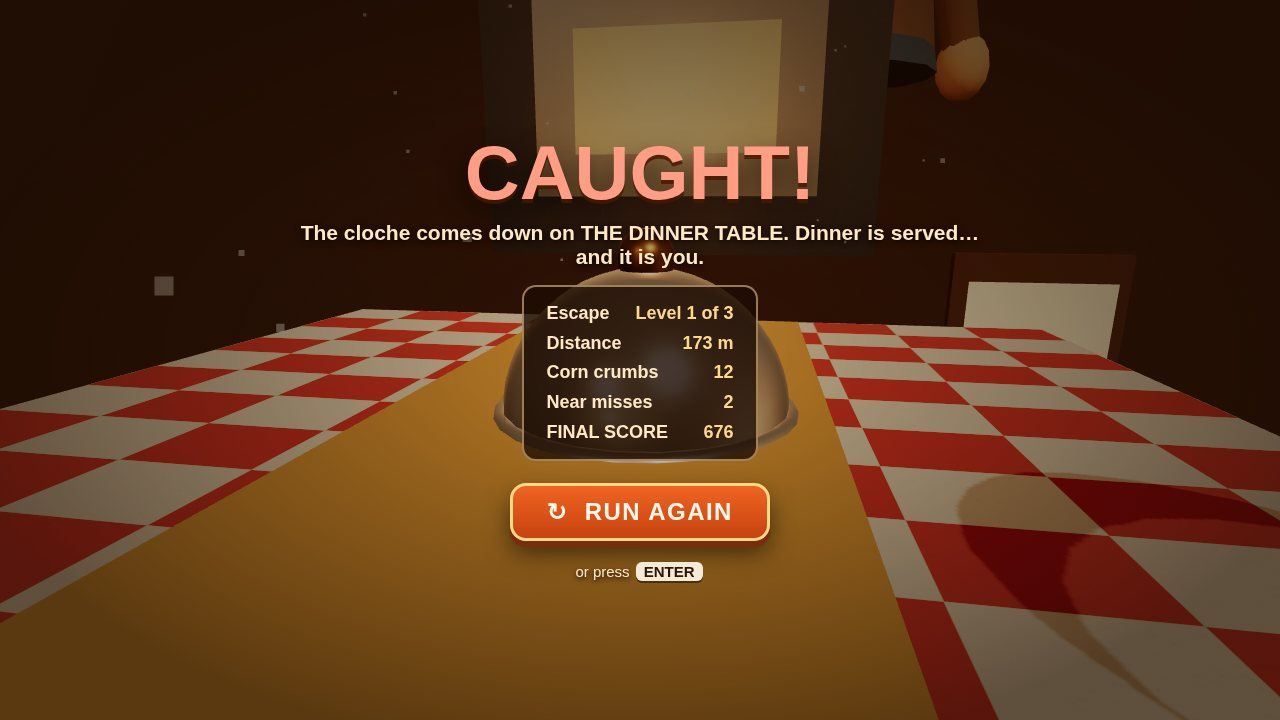
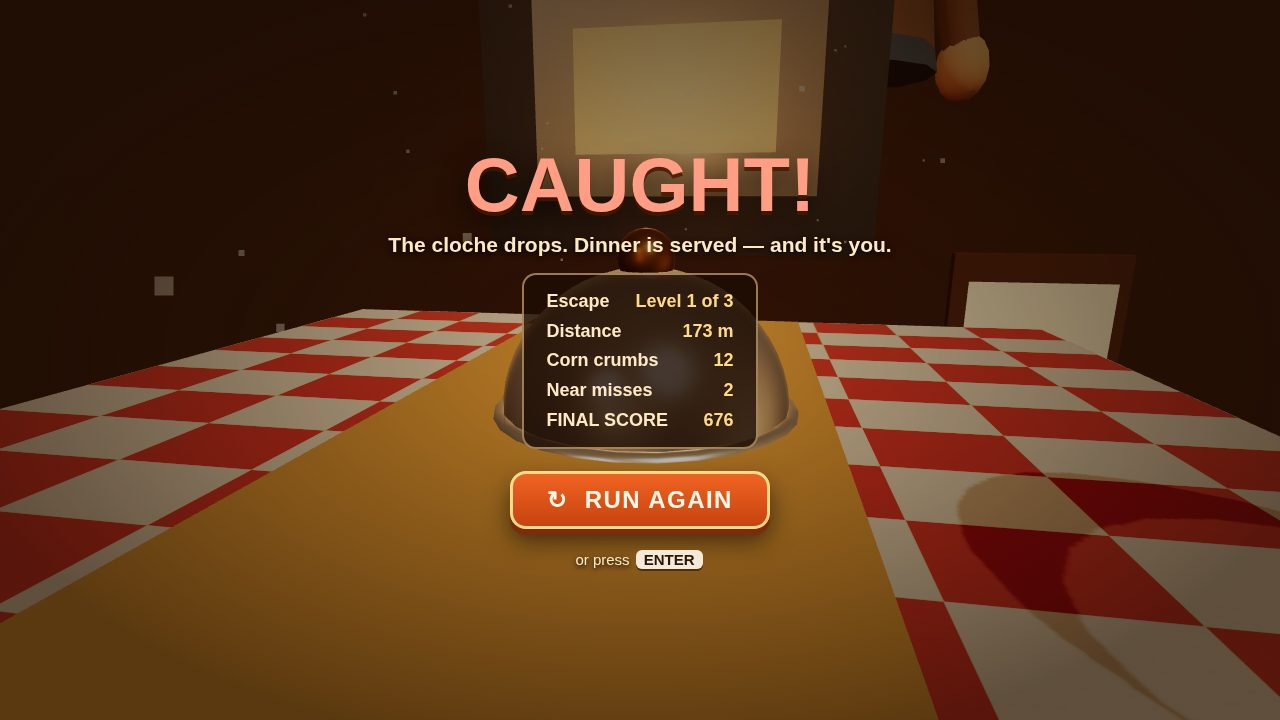
Hero re-stage: unoccluded turkey, knife a body-length away, hand at the edge; cloche copy on the caught screen

Changed region(s): [[0.2188, 0.1833, 0.75, 0.825]]

diff --git a/game/src/shots.js b/game/src/shots.js
@@ -23,12 +23,14 @@ export function stageShot(name, game) {
 
   if (name === 'play') {
     // The hero frame (Level 1), staged to read in one second at thumbnail size —
-    // "I am small, death is huge, I just dodged it": camera low and tight, the
-    // turkey MID-DASH (stamina bar mid-drain, feather burst blooming), the carving
-    // knife plunging one body-length to its left over a deep shadow, the farmer's
-    // thumb and forefinger pinching the cloth at the frame's right edge, and the
-    // real HUD over it all with a CLOSE! +15 pop still on screen. A genuine
-    // gameplay frame, UI and all — not a cinematic.
+    // "I am small, death is huge, I just dodged it": camera low, tight and swung
+    // to the bird's rear-left so the body reads in three-quarter profile instead
+    // of hiding behind its own tail fan, the turkey MID-DASH (stamina bar
+    // mid-drain, feather burst blooming at its tail), the carving knife plunging
+    // one body-length to its left over a deep shadow, the farmer's fingers
+    // sweeping in at the frame's right edge, and the real HUD over it all with a
+    // CLOSE! +15 pop still on screen. A genuine gameplay frame, UI and all —
+    // not a cinematic.
     game.setWorld(0);
     game.state = 'playing';
     game.hud.showHud();
@@ -45,35 +47,45 @@ export function stageShot(name, game) {
     game.spawnDashFx();
     game.spawnDashFx();
     game.distance = 128;
-    // Pose the bursts mid-bloom: where the live effect puts the feathers ~0.3 s in.
+    // Pose the bursts as a puff kicked up at the tail: pull each burst back to
+    // the tail feathers, advance the bits only ~0.18 s along their drift and
+    // keep them at natural scale with a slight tumble — at the old 1.7 scale,
+    // floated in front of the bird, the flat feather cards clumped into a
+    // stack of boards that hid the turkey.
     for (const b of game.dashFx) {
       if (!b.active) continue;
+      b.group.position.z -= 1.6;
       for (const bit of b.bits) {
-        bit.mesh.position.x += bit.vx * 0.3;
-        bit.mesh.position.y += bit.vy * 0.3;
-        bit.mesh.position.z += bit.vz * 0.3;
-        bit.mesh.scale.setScalar(1.7);
+        bit.mesh.position.x += bit.vx * 0.18;
+        bit.mesh.position.y += bit.vy * 0.18;
+        bit.mesh.position.z += bit.vz * 0.38;
+        bit.mesh.rotation.x = bit.spin * 0.3;
+        bit.mesh.rotation.y = bit.spin * 0.2;
+        bit.mesh.scale.setScalar(1.0);
       }
     }
     const knife = hazards.knives[0];
     knife.phase = 'plunge';
-    knife.x = -5.4; knife.z = -139.5;
-    knife.group.position.set(-5.4, 14.2, -139.5);
+    knife.x = -4.7; knife.z = -137.2;
+    knife.group.position.set(-4.7, 12.4, -137.2);
     knife.group.rotation.y = 0.45;
     knife.group.rotation.z = 0.05;
     knife.group.visible = true;
-    knife.blob.position.set(-5.4, 0.24, -139.5);
+    knife.blob.position.set(-4.6, 0.24, -137.2);
     knife.blob.scale.setScalar(1);
     knife.blob.visible = true;
-    knife.ring.position.set(-5.4, 0.26, -139.5);
+    knife.ring.position.set(-4.6, 0.26, -137.2);
     knife.ring.visible = true;
-    // The farmer's hand intrudes at the right edge, thumb and forefinger pinching —
-    // side-on, so the fingers read in profile, curling down at the cloth.
+    // The farmer's hand sweeps in at the right edge at cloth height — palm out
+    // of frame, fingers descending at the edge with the grab curl on, tips
+    // staggered like fingertips. (Centred and seen from above, the hand's flat
+    // faces filled half the frame as a wall of boards; at the edge it reads
+    // as what it is and leaves the bird alone.)
     const hand = hazards.hand;
-    hand.group.position.set(9.4, 5.4, -131);
-    hand.group.rotation.set(0.2, 1.35, 0.1);
+    hand.group.position.set(16.0, 3.4, -130.5);
+    hand.group.rotation.set(0.05, 1.5, 0.0);
     hand.group.visible = true;
-    setGrab(hand, 0.62);
+    setGrab(hand, 0.75);
     let placed = 0;
     for (const c of hazards.corns) {
       if (placed >= 5) break;
@@ -97,8 +109,8 @@ export function stageShot(name, game) {
     // The farmer looms in the back so the pursuer registers at a glance.
     game.poseFarmer(1.15);
     game.poseCamera(
-      { x: -3.9, y: 3.6, z: -122.8 },
-      { x: -0.4, y: 2.0, z: -136.5 },
+      { x: -8.6, y: 2.6, z: -129.0 },
+      { x: -0.9, y: 1.8, z: -135.2 },
     );
     return;
   }

diff --git a/game/src/hud.js b/game/src/hud.js
@@ -79,7 +79,7 @@ export class Hud {
     this.end.className = 'overlay on ' + kind;
     if (kind === 'caught') {
       this.endTitle.textContent = 'CAUGHT!';
-      this.endSub.textContent = `The cloche comes down on ${stats.levelName}. Dinner is served… and it is you.`;
+      this.endSub.textContent = "The cloche drops. Dinner is served — and it's you.";
     } else {
       this.endTitle.textContent = 'ESCAPED!';
       this.endSub.textContent = 'Out the kitchen window — a free bird!';
